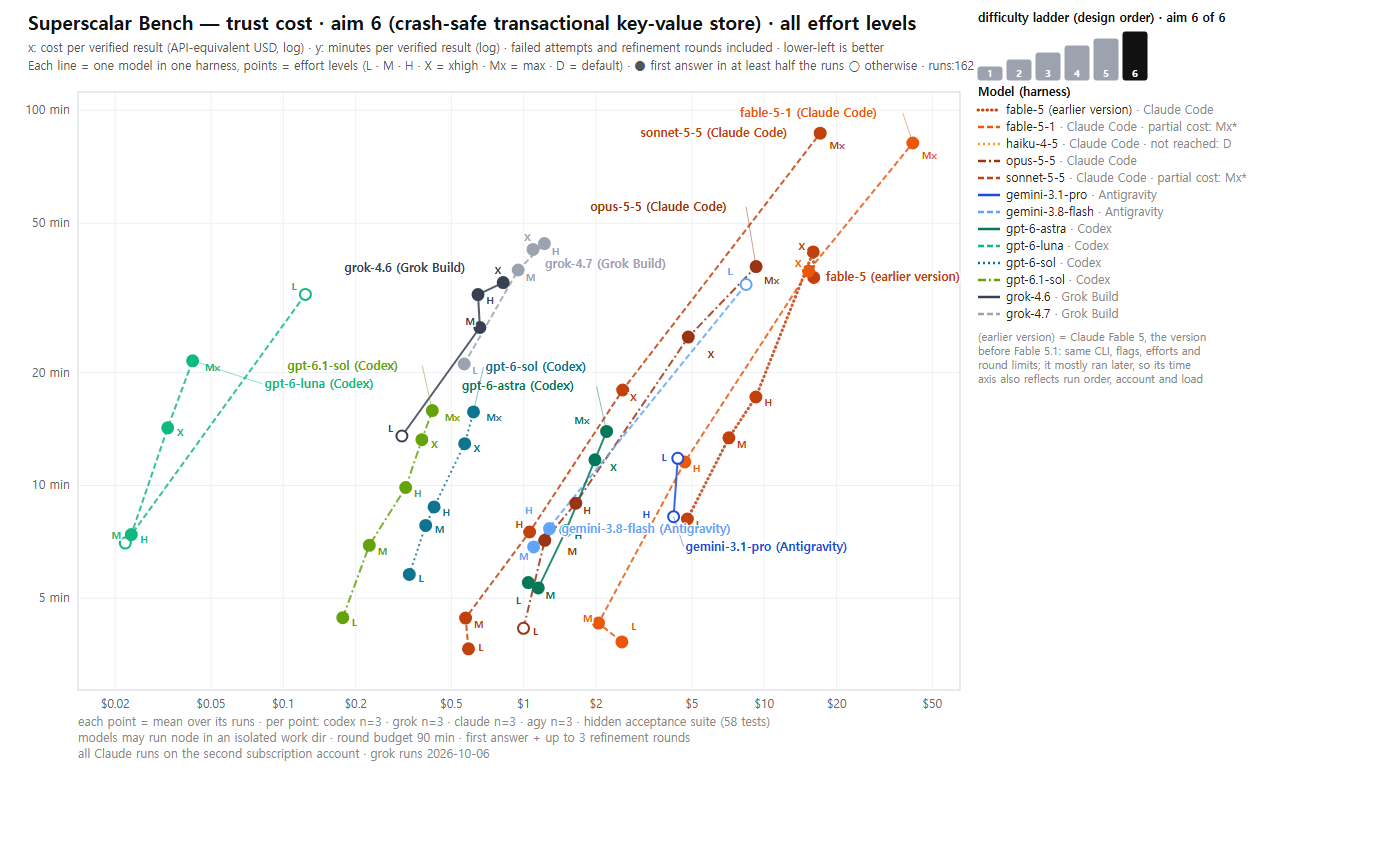
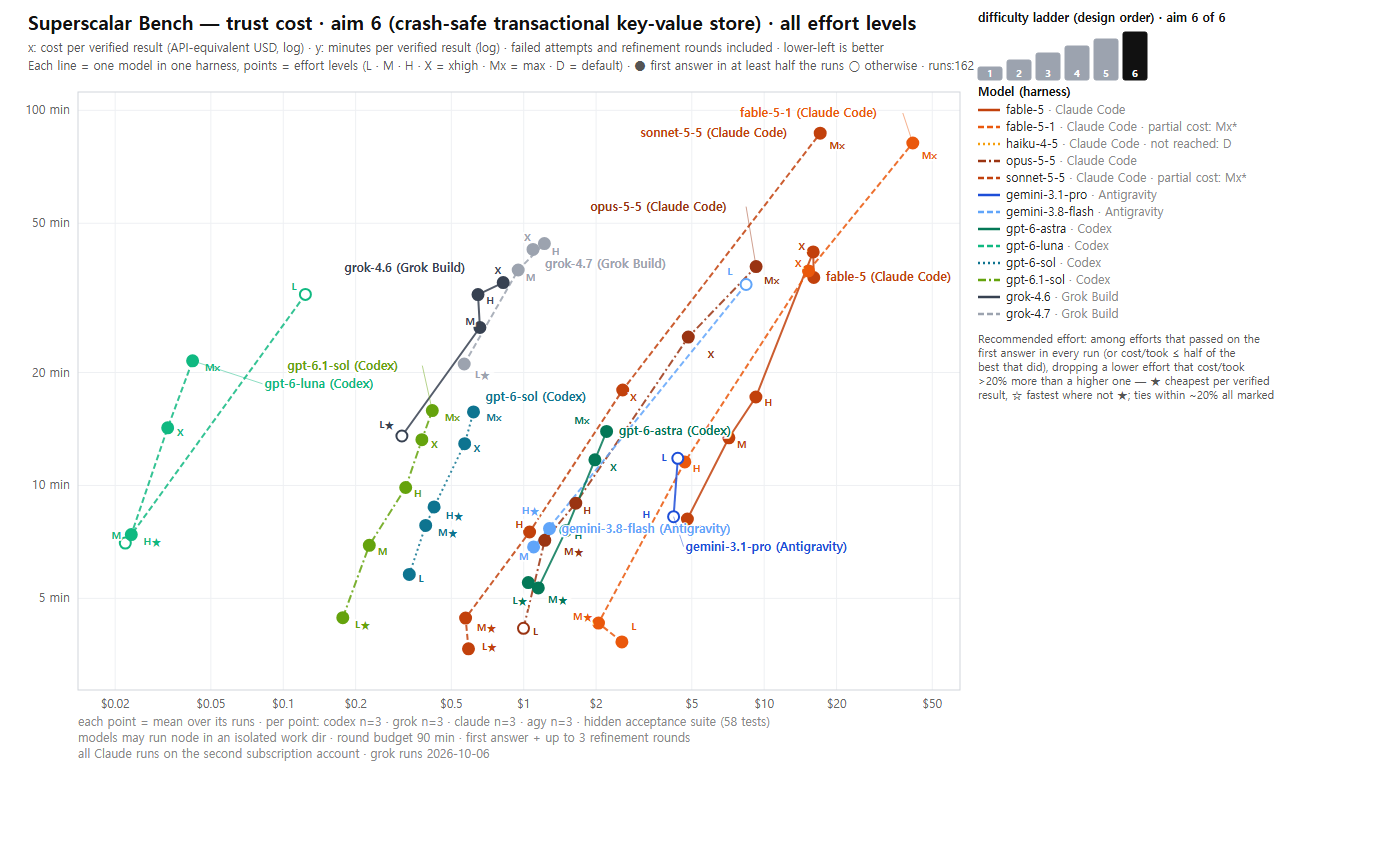
chore(release): v2.6.149 — Superscalar Bench: recommended effort marked in every figure (eligible = first answer in every run · exception ≥2× · per-axis exclusion of a lower effort that spends >20% more · ★ cheapest / ☆ fastest within the 20% tie band), same marks as a table; Claude Fable 5 named li
- figures: ★/☆ beside effort labels + a legend note; no mark where no effort passed on the first answer in every run
- SuperscalarBench.md + docs page: «Recommended effort by aim» table and the four-step rule (EN/KO), generated by the same function as the figures
- Fable 5: separate label and line style removed; the harness-prompt note is now a general sentence about Claude Code

diff --git a/docs/superscalar-bench.html b/docs/superscalar-bench.html
@@ -103,13 +103,13 @@
       <table class="data">
         <thead><tr><th data-en="harness" data-ko="하네스">harness</th><th data-en="models" data-ko="모델">models</th><th data-en="effort levels" data-ko="effort 단계">effort levels</th></tr></thead>
         <tbody>
-          <tr><td>Claude Code (CLI 2.1.284)</td><td>Sonnet 5.5 · Opus 5.5 · Fable 5.1 · Fable 5 (earlier version) · Haiku 4.5</td><td>low – max · Haiku: default</td></tr>
+          <tr><td>Claude Code (CLI 2.1.284)</td><td>Sonnet 5.5 · Opus 5.5 · Fable 5.1 · Fable 5 · Haiku 4.5</td><td>low – max · Haiku: default</td></tr>
           <tr><td>Codex</td><td>GPT-6.1 Sol · GPT-6 Sol · GPT-6 Astra · GPT-6 Luna</td><td>low – max</td></tr>
           <tr><td>Grok Build</td><td>grok-4.7 · grok-4.6</td><td>low – xhigh</td></tr>
           <tr><td>Antigravity</td><td>Gemini 3.8 Flash · Gemini 3.1 Pro</td><td>Flash: low · medium · high · Pro: low · high</td></tr>
         </tbody>
       </table>
-      <p data-en="Claude Fable 5 is the earlier version of Fable 5.1, measured with the same CLI version, flags, effort levels, round limit and budget, at n = 3 per cell. Claude Code sends each model its own built-in system prompt — part of the harness, as for every model here. Fable 5 mostly ran later, mostly on the second Claude subscription account, and alone on aim 6, so its time axis is the least comparable." data-ko="Claude Fable 5 는 Fable 5.1 의 이전 버전이에요. 같은 CLI 버전 · 플래그 · effort 단계 · 라운드 한도 · 예산으로, 칸마다 n = 3 으로 쟀어요. Claude Code 는 모델마다 자기 내장 시스템 프롬프트를 보내요 — 하네스의 일부이고, 여기 모든 모델이 그래요. Fable 5 는 대체로 늦게, 주로 두 번째 Claude 구독 계정에서, aim 6 에선 혼자 돌아서 시간 축이 가장 비교하기 어려워요.">Claude Fable 5 is the earlier version of Fable 5.1, measured with the same CLI version, flags, effort levels, round limit and budget, at n = 3 per cell. Claude Code sends each model its own built-in system prompt — part of the harness, as for every model here. Fable 5 mostly ran later, mostly on the second Claude subscription account, and alone on aim 6, so its time axis is the least comparable.</p>
+      <p data-en="Claude Code sends each Claude model its own built-in system prompt — that is part of the harness, so a comparison between two Claude models is a comparison of model plus harness prompt, as it is under any harness." data-ko="Claude Code 는 Claude 모델마다 자기 내장 시스템 프롬프트를 보내요 — 하네스의 일부라서, Claude 모델 둘의 비교는 어느 하네스에서나처럼 «모델 + 하네스 프롬프트» 의 비교예요.">Claude Code sends each Claude model its own built-in system prompt — that is part of the harness, so a comparison between two Claude models is a comparison of model plus harness prompt, as it is under any harness.</p>
     </section>
 
     <section>
@@ -126,6 +126,25 @@
         <h4 data-en="Cheaper per token is not cheaper per verified result" data-ko="토큰당 싸다고 결과당 싼 게 아니에요">Cheaper per token is not cheaper per verified result</h4>
         <p data-en="In Claude Code, Claude Haiku 4.5's first answer alone cost as much as or more than Claude Sonnet 5.5's at Sonnet's cheapest effort on every aim, and it needed refinement more often. Per verified result it cost 1.3–4.5× as much on aims 1–5 (Haiku has one effort level, compared here with the best of Sonnet's five), and it did not reach aim 6." data-ko="Claude Code 에서 Claude Haiku 4.5 의 첫 답 하나가 가장 싼 effort 의 Claude Sonnet 5.5 첫 답과 같거나 더 비쌌고(모든 aim), 보정도 더 자주 필요했어요. 검증된 결과당으로는 aim 1–5 에서 1.3–4.5배(Haiku 는 effort 가 하나라 Sonnet 다섯 칸 중 가장 싼 것과 비교), aim 6 에선 못 닿았어요.">In Claude Code, Claude Haiku 4.5's first answer alone cost as much as or more than Claude Sonnet 5.5's at Sonnet's cheapest effort on every aim, and it needed refinement more often. Per verified result it cost 1.3–4.5× as much on aims 1–5 (Haiku has one effort level, compared here with the best of Sonnet's five), and it did not reach aim 6.</p>
       </div>
+      <h3 data-en="Recommended effort by aim" data-ko="aim 별 권장 effort">Recommended effort by aim</h3>
+      <p data-en="The ★ / ☆ marks in the figures. Four steps, per model and aim. (1) Eligible: efforts that reached on the first answer in every run. (2) Exception: an effort that needed refinement still qualifies if its cost or time per verified result is at most half that of the best eligible effort — far beyond the ~20% noise band. (3) Excluded: a lower effort that costs more than 20% more than some higher effort cannot get ★, and one that takes more than 20% longer cannot get ☆ — a lower effort that spends more must not look recommended. (4) Ranked: ★ on every remaining effort within 20% of the cheapest cost per verified result (the report&#39;s tie rule, so ties are all marked), ☆ on every remaining effort within 20% of the fastest that is not already ★. — means no effort passed on the first answer in every run; a single-effort model (Haiku 4.5) and a cell with a missing cost record get no ★." data-ko="그림의 ★ / ☆ 표시예요. 모델 × aim 마다 네 단계예요. ① 자격: 모든 실행이 첫 답에서 통과한 effort. ② 예외: 보정이 필요했어도, 검증된 결과당 비용이나 시간이 자격 있는 최선의 절반 이하면 후보에 넣어요 — ~20% 잡음 띠보다 훨씬 큰 차이만. ③ 제외: 더 높은 effort 보다 비용이 20% 넘게 더 드는 하위 effort 는 ★ 를, 시간이 20% 넘게 더 드는 하위 effort 는 ☆ 를 못 받아요 — 더 쓰는 하위 effort 가 권장으로 보이면 안 되니까요. ④ 순위: 남은 후보 중 검증된 결과당 비용이 가장 싼 칸의 20% 안 전부에 ★(보고서 동률 규칙이라 동률은 함께 표시), 가장 빠른 칸의 20% 안이면서 ★ 가 아닌 것에 ☆. — 는 모든 실행이 첫 답에서 통과한 effort 가 없다는 뜻이고, effort 가 하나뿐인 모델(Haiku 4.5)과 비용 기록이 빠진 칸은 ★ 를 받지 않아요.">The ★ / ☆ marks in the figures. Four steps, per model and aim. (1) Eligible: efforts that reached on the first answer in every run. (2) Exception: an effort that needed refinement still qualifies if its cost or time per verified result is at most half that of the best eligible effort — far beyond the ~20% noise band. (3) Excluded: a lower effort that costs more than 20% more than some higher effort cannot get ★, and one that takes more than 20% longer cannot get ☆ — a lower effort that spends more must not look recommended. (4) Ranked: ★ on every remaining effort within 20% of the cheapest cost per verified result (the report's tie rule, so ties are all marked), ☆ on every remaining effort within 20% of the fastest that is not already ★. — means no effort passed on the first answer in every run; a single-effort model (Haiku 4.5) and a cell with a missing cost record get no ★.</p>
+      <table class="data">
+        <thead><tr><th data-en="harness · model" data-ko="하네스 · 모델">harness · model</th><th>aim 1</th><th>aim 2</th><th>aim 3</th><th>aim 4</th><th>aim 5</th><th>aim 6</th></tr></thead>
+        <tbody>
+          <tr><td>Codex · GPT-6 Astra</td><td>L★ M★</td><td>L★ M★</td><td>L★ M★</td><td>L★ M★</td><td>L★ M★</td><td>L★ M★</td></tr>
+          <tr><td>Codex · GPT-6 Luna</td><td>L★ M★ H★</td><td>H★</td><td>L★ M★</td><td>L★ M★</td><td>M★</td><td>H★</td></tr>
+          <tr><td>Codex · GPT-6 Sol</td><td>L★</td><td>L★</td><td>L★ M★</td><td>L★</td><td>L★</td><td>M★ H★</td></tr>
+          <tr><td>Codex · GPT-6.1 Sol</td><td>L★</td><td>L★</td><td>L★ M★</td><td>L★</td><td>L★ M★</td><td>L★</td></tr>
+          <tr><td>Claude Code · Fable 5</td><td>H★</td><td>L★</td><td>L★</td><td>L★</td><td>L★</td><td>L★</td></tr>
+          <tr><td>Claude Code · Fable 5.1</td><td>L★ M★ H★</td><td>L★</td><td>L★ M★</td><td>L★</td><td>M★</td><td>M★</td></tr>
+          <tr><td>Claude Code · Opus 5.5</td><td>M★</td><td>L★</td><td>L★ M★</td><td>L★ M★</td><td>L★</td><td>M★</td></tr>
+          <tr><td>Claude Code · Sonnet 5.5</td><td>L★ M☆</td><td>L★ M★ H☆</td><td>L★ M★</td><td>L★ M★</td><td>H★ L☆</td><td>L★ M★</td></tr>
+          <tr><td>Grok Build · grok-4.6</td><td>L★</td><td>L★</td><td>L★</td><td>L★</td><td>L★</td><td>L★</td></tr>
+          <tr><td>Grok Build · grok-4.7</td><td>L★</td><td>L★</td><td>L★</td><td>L★</td><td>L★</td><td>L★</td></tr>
+          <tr><td>Antigravity · Gemini 3.1 Pro</td><td>L★</td><td>—</td><td>H★</td><td>L★</td><td>—</td><td>—</td></tr>
+          <tr><td>Antigravity · Gemini 3.8 Flash</td><td>L★</td><td>L★</td><td>L★</td><td>L★ M☆</td><td>L★</td><td>H★</td></tr>
+        </tbody>
+      </table>
       <h3 data-en="Claude Fable 5.1 vs Fable 5 — cost ratio by effort" data-ko="Claude Fable 5.1 대 Fable 5 — effort 별 비용비">Claude Fable 5.1 vs Fable 5 — cost ratio by effort</h3>
       <table class="data">
         <thead><tr><th></th><th class="num">low</th><th class="num">medium</th><th class="num">high</th><th class="num">xhigh</th><th class="num">max</th></tr></thead>
@@ -140,7 +159,7 @@
 
     <section>
       <h2 data-en="All six aims" data-ko="여섯 aim 전체">All six aims</h2>
-      <p data-en="x = trust cost (log) · y = trust time (log) · each line one model in one harness · points = effort levels (● first answer in at least half the runs, ○ otherwise) · lower-left is better. The marker at the top right shows the rung on the ladder." data-ko="x = 신뢰비용(로그) · y = 신뢰시간(로그) · 선 하나 = 한 하네스의 한 모델 · 점 = effort 단계(● 실행 절반 이상이 첫 답 · ○ 그 밖) · 왼쪽 아래가 좋아요. 오른쪽 위 표시가 사다리의 몇 번째 단인지 보여 줘요.">x = trust cost (log) · y = trust time (log) · each line one model in one harness · points = effort levels (● first answer in at least half the runs, ○ otherwise) · lower-left is better. The marker at the top right shows the rung on the ladder.</p>
+      <p data-en="x = trust cost (log) · y = trust time (log) · each line one model in one harness · points = effort levels (● first answer in at least half the runs, ○ otherwise; ★ / ☆ = recommended effort, see above) · lower-left is better. The marker at the top right shows the rung on the ladder." data-ko="x = 신뢰비용(로그) · y = 신뢰시간(로그) · 선 하나 = 한 하네스의 한 모델 · 점 = effort 단계(● 실행 절반 이상이 첫 답 · ○ 그 밖 · ★ / ☆ = 권장 effort, 위 표 참고) · 왼쪽 아래가 좋아요. 오른쪽 위 표시가 사다리의 몇 번째 단인지 보여 줘요.">x = trust cost (log) · y = trust time (log) · each line one model in one harness · points = effort levels (● first answer in at least half the runs, ○ otherwise; ★ / ☆ = recommended effort, see above) · lower-left is better. The marker at the top right shows the rung on the ladder.</p>
       <figure class="bench-fig"><img src="assets/bench/trust-cost-aim1.png" alt="aim 1 — mechanical multi-file edit" loading="lazy"><figcaption>aim 1 — mechanical multi-file edit · 25 hidden tests</figcaption></figure>
       <figure class="bench-fig"><img src="assets/bench/trust-cost-aim2.png" alt="aim 2 — spec-complete implementation" loading="lazy"><figcaption>aim 2 — spec-complete implementation · 73 hidden tests</figcaption></figure>
       <figure class="bench-fig"><img src="assets/bench/trust-cost-aim3.png" alt="aim 3 — multi-step feature + schema migration" loading="lazy"><figcaption>aim 3 — multi-step feature + schema migration · 49 hidden tests</figcaption></figure>

diff --git a/docs/index.html b/docs/index.html
@@ -61,7 +61,7 @@
       <p class="tagline" data-aud="dev" data-en="A reusable seed of agentic-coding patterns, designed to drop into any project that uses Claude Code, Codex, Cursor, or similar AI coding assistants." data-ko="Claude Code · Codex · Cursor와 같은 AI 코딩 도구를 사용하는 프로젝트에 그대로 투입할 수 있도록 정리한, 재사용 가능한 agentic-coding 패턴 시드입니다.">A reusable seed of agentic-coding patterns for Claude Code, Codex, Cursor, etc.</p>
       <div class="badges">
         <span class="badge">Apache-2.0</span>
-        <span class="badge">v2.6.148</span>
+        <span class="badge">v2.6.149</span>
         <span class="badge">7 modules</span>
       </div>
       <div class="cta-row">

diff --git a/docs/shared/data.js b/docs/shared/data.js
@@ -3,7 +3,7 @@
 
 window.EG_DATA = {
   meta: {
-    version: 'v2.6.148',
+    version: 'v2.6.149',
     shipCount: 91,
     cycleHours: 24,
     e2ePRs: 5,

diff --git a/CHANGELOG.md b/CHANGELOG.md
@@ -13,6 +13,7 @@ This file is the **changelog SSoT** — each seed file keeps only a compact head
 ## Changelog (English)
 
 - **v2.6.113** (2026-08-16) — two model rows joined the subscaler registry, and the intake pipeline mattered more than the rows. Grok 4.6 (T1) and Gemini 3.7 Flash (T2) were each researched against vendor pages and then **adversarially re-derived by a second agent from the same cited pages** — and the refutation pass earned its cost three times over. It converted a hedge into a fact: the researcher flagged Grok 4.6's cached-input price as "maybe the predecessor row just omitted the tier split", and the verifier settled it by re-deriving the 4.5 row from the same pricing page — the cached rate genuinely rose ($0.30→$0.50 under 200k, $0.60→$1.00 above) while base rates held. It caught a paraphrase presented as a verbatim quote, which matters in a registry whose rows cite quotes as evidence. And it found a parameter path attributed to a page that does not carry it. The rows also encode two upgrade foot-guns that point in opposite directions: xAI's new top effort rung is accepted-and-silently-downgraded on older models (a pinned "xhigh" config degrades without an error), while Google removed the bottom rung — "minimal" now returns an error on 3.7 Flash, so a low-effort lane config breaks loudly on upgrade. Loud beats silent; both are recorded where a lane-binding reader will meet them. Three neighbouring claims were corrected in the same cut, because a registry that only ever adds rows accumulates rows whose neighbours contradict them: 3.6 Flash's "current pick" claim got an end date, the xAI effort-ladder guidance now says the ladder grew at the top while the bottom is still missing, and the alias-trap caveat is flagged stale — the vendor docs do not say where grok-build-latest points after 4.6, so the trap's target is unverified in both directions until re-measured. The watchlist gained the dated events that will bite: Gemini 3.7 Flash's introductory pricing doubles on 2027-01-01 to exactly its predecessor's price (so the tier pick must be re-run at that boundary), and the three-week Flash cadence now outruns the Gemini CLI's own model allowlist by two-plus cycles, which converts every new Flash into an API-only model for that harness.
+- **v2.6.149** (2026-10-07) — Superscalar Bench — **recommended effort marked in every figure; Claude Fable 5 named like every other model.** Each per-aim figure marks the recommended effort per model, decided in four steps: (1) eligible = efforts that reached on the first answer in every run; (2) exception = an effort that needed refinement still qualifies if its cost or time per verified result is at most half that of the best eligible one — far beyond the ~20% noise band (7 cells); (3) excluded, per axis = a lower effort that costs more than 20% more than some higher effort cannot get ★, one that takes more than 20% longer cannot get ☆, so a lower effort that spends more never looks recommended — applied per axis so that a cheaper-but-slower effort keeps its true «cheapest» mark (excluding on «cost or time» together would have taken ★ from Sonnet 5.5 low on aim 1, 0.82× the cost of medium); (4) ranked = ★ on every remaining effort within 20% of the cheapest cost per verified result, ☆ on every remaining effort within 20% of the fastest that is not already ★. The 20% band is the report's own tie rule (median cost CV 11–19% over 3 runs), so ties are marked together rather than one cell being called «recommended»; a model and aim with no effort passing on the first answer in every run gets no mark (—), as does a single-effort model; a cell with a missing cost record cannot get ★. Result: 92 ★ and 4 ☆ across the six figures, the same marks as a «Recommended effort by aim» table in the report and on the docs page, both generated by one function. Separately, Claude Fable 5 was measured under the same conditions as the rest, so its version number is enough to tell it apart: its separate label and dotted line style are gone from the figures, the aim-6 table and the docs page; the note that Claude Code sends each Claude model its own built-in system prompt stays as a general sentence about the harness. Key images, guide sheets and the ladder summary are unchanged.
 - **v2.6.148** (2026-10-07) — Superscalar Bench key images — **a glance tells which kind of task each aim is.** One wordless key image per aim (aims 1–6: a mechanical edit repeated across files · building from a complete spec · a feature plus a stored-data migration · diagnosing one hidden flaw from a symptom report · tokens becoming a tree becoming a result · a store that survives a power cut), and a guide sheet in English and Korean that puts the six on the designed ladder of difficulty. The pictures were generated with Codex CLI 0.160.1's built-in image tool (the plan path that needs no API key; the API-key fallback was not used); every output was checked as a new file in its own session folder, a PNG signature, a square size and a minimum byte size, then downscaled to 600 × 600. Prompts are published beside the images (`docs/assets/bench/keyart/prompts/`) with a note on how they were made; the pictures carry no text by design, and everything readable on the sheet — titles, aim numbers, task names, test counts and the ladder — is drawn by code, so one set of pictures serves both languages. Placement: SuperscalarBench.md opens each language section with its sheet and adds a key-image column to the aim tables; the docs page gains a «The six aims» section whose sheet follows the language toggle, and the same column; README shows the sheet above the aim 5–6 figures.
 - **v2.6.147** (2026-10-07) — Superscalar Bench report · superscalar plugin v0.5.7 · model registry — **what one verified coding result costs, now published.** New `SuperscalarBench.md` (a report, not a module) and docs page `superscalar-bench.html`: trust cost — the cost and wall time of one *verified* result, failed attempts and refinement rounds included — per model × harness × effort on six coding tasks on a ladder ordered by task scope and designed to get harder as it climbs, each graded by a hidden acceptance suite (first answer plus up to three refinement rounds). 971 valid runs (2026-09-30 → 10-06; 54 combinations per task across Claude Code, Codex, Grok Build and Antigravity; n=3 per cell, one cell n=2). What it shows: the ladder separates on time, cost and the first answer before it separates on reach — all 809 runs of the first five tasks reached, the sixth is the first with misses (156 of 162), and the top two tasks take about twice the median time and cost of the first four, which rise unevenly and are reported as measured, not smoothed. The cheapest effort is low or medium in 70 of 72 model × task pairs; on the first five tasks higher effort bought no extra reach (low → max up to ~24× the cost), while on the sixth, apart from Claude Haiku 4.5 (one effort level), every miss was at the lowest effort. Cheaper per token is not cheaper per verified result (Claude Haiku 4.5's first answer already cost at least Claude Sonnet 5.5's at Sonnet's cheapest effort; 1.3–4.5× per verified result, no reach on the sixth). Claude Fable 5.1 vs its earlier version Fable 5 depends on effort: costlier at max on all six tasks (1.7–3.4×), cheaper or about the same at low–high. Stated limits: single observer on one machine, tasks and hidden suites unpublished (not rerunnable yet), only the Claude Code CLI version recorded (in each Claude transcript), time is the weaker axis (load, run order, two subscription accounts, 43 early runs with the machine's plugin hooks), cost is API-equivalent, four max-effort runs reached without a cost record (their cells are lower bounds). The report also lists the seven measurement-condition defects found and fixed, and an incident where empty grader feedback led a model to probe the evaluator (caught by the tamper scan). Figures: README carries the two top tasks; the report and docs page carry all six plus a ladder summary; each per-task figure marks its rung, and Fable 5 is labelled «earlier version» (same CLI, flags, efforts and round limits; it mostly ran later, so its time axis is the least comparable). Registry: effortGuidance «MEASURED IN-HOUSE» now points at the published report, covers the sixth task, corrects the Fable max wall-time range (2–6×) and the Haiku range (3.5–4.5× on three tasks; 1.3–4.5× over five), and names which task each Sonnet low → max multiple belongs to; the Fable 5.1 row note gains the sixth-task ratio. superscalar plugin 0.5.6 → 0.5.7.
 - **v2.6.146** (2026-10-06) — Constellation v2.4.178 — **what the relay forwards about an item is now signed by the board, and so is every record of a spent code (§13.25.17, informative).** v2.6.145 let a code choose only on decisions declared `two_way`, but the declaration travelled unsigned, so whoever forwarded the snapshot could claim it. Every items-snapshot entry now carries a board signature (P-256, the board key a phone already pins) over `{boardId, itemId, rev, status, kind, reversibility|null, v}`. A phone or relay can therefore check the declaration, the revision and whether the item is open or closed. The verifier rules are written down. An unsigned or unverifying entry takes no part in revision ordering. Once a board's signature has verified, its unsigned entries are refused. A same-revision signed entry may replace a stored unsigned row only if every field matches. Closure counts only when a signed `resolved` record arrives at a higher revision; an item merely missing from a full snapshot stays unconfirmed. Spend records gain a signed `ver` that rises each time the board re-signs a record, so a replayed older record loses. They no longer wait for a result POST to travel: a new batch item `{kind:'spends'}` carries the latest ones. Their item id is the one the snapshot uses for decisions (`sd:`); selection answers keep the prompt's `h:` id and are matched only when the signed verb is `selection.answer`. Review found six more issues, all fixed. Items already open at upgrade would never have received a usable signature, because their signed record arrived at the revision the relay already held; they are now re-sent once at the next revision when a key first signs them. A non-integer revision on disk stopped the whole uplink; such records are now dropped on load. After receipts were pruned a spend record could be re-signed back to `no-receipt`; a final outcome now never regresses. Full snapshots also carry signed closing records from the last seven days, so a closure notice lost in transit can still be confirmed. A claim that unchanged records keep identical signature bytes across restarts was dropped; verifiers compare signed fields, not bytes. `smoke-uplink-commands` runs 269 assertions and fails on each of its mutants.
@@ -646,6 +647,7 @@ Earlier releases (v1.0 – v2.4.x, 39 entries): preserved verbatim in [CHANGELOG
 ## 변경 이력 (한국어)
 
 - **v2.6.113** (2026-08-16) — subscaler 레지스트리에 모델 두 행이 들어왔는데, 행보다 **들어온 절차**가 더 값졌어요. Grok 4.6(T1)과 Gemini 3.7 Flash(T2)를 각각 벤더 페이지로 조사한 뒤 **두 번째 에이전트가 같은 인용 페이지에서 값을 다시 유도**하게 했고, 그 반증 패스가 비용값을 세 번 했어요. 헤지를 사실로 바꿨어요 — 조사자는 Grok 4.6 의 캐시 입력 단가를 「전임 행이 티어 표기를 생략했을 수도」라고 얼버무렸는데, 반증자가 같은 가격 페이지에서 4.5 행을 재유도해서 확정했어요: 기본 단가는 그대로인데 **캐시 단가만 진짜 인상**($0.30→$0.50 · $0.60→$1.00)이에요. 의역을 원문 인용처럼 적은 것도 잡았어요 — 인용을 근거로 싣는 레지스트리에선 그 구분이 곧 신뢰예요. 그리고 파라미터 경로가 그걸 싣지 않은 페이지에 귀속돼 있던 것도요. 새 행 둘은 **반대 방향의 업그레이드 함정** 한 쌍을 담아요: xAI 의 새 최상단 effort(xhigh)는 구모델에서 **오류 없이 조용히 강등**되고(핀 박은 설정이 소리 없이 낮아져요), Google 은 최하단을 없애서 3.7 Flash 에 «minimal» 을 보내면 **오류가 나요** — 낮은 쪽 레인 설정이 업그레이드에서 시끄럽게 깨져요. 조용한 것보다 시끄러운 게 낫고, 둘 다 레인 결속을 읽는 사람이 만날 자리에 적었어요. 같은 컷에서 이웃 주장 셋을 정정했어요 — 행만 추가하는 레지스트리는 이웃과 모순되는 행을 쌓거든요: 3.6 Flash 의 「현재 픽」 주장에 종료일을 달았고, xAI effort 사다리 서술은 「위로 자랐고 아래는 여전히 없다」로, 별칭 함정 caveat 은 **낡음 표시**를 달았어요 — 4.6 출시 후 grok-build-latest 가 어디를 가리키는지 벤더 문서가 말하지 않아서, 재측정 전까지 그 함정의 과녁은 양방향 미검증이에요. watchlist 엔 물게 될 날짜들이 들어갔어요: Gemini 3.7 Flash 도입가가 2027-01-01 에 정확히 전임 가격으로 두 배가 되고(그 경계에서 티어 픽을 다시 돌려야 해요), 3주짜리 Flash 출시 주기가 Gemini CLI 자기 모델 허용목록을 2사이클 이상 앞질러서 새 Flash 가 나올 때마다 그 하네스에선 API 전용이 돼요.
+- **v2.6.149** (2026-10-07) — Superscalar Bench — **그림마다 권장 effort 표시 · Claude Fable 5 도 다른 모델처럼 이름만.** aim 별 그림이 모델마다 권장 effort 를 네 단계로 정해 표시해요: ① 자격 = 모든 실행이 첫 답에서 통과한 effort ② 예외 = 보정이 필요했어도 검증된 결과당 비용이나 시간이 자격 있는 최선의 절반 이하면 후보(~20% 잡음 띠보다 훨씬 큰 차이만 · 7칸) ③ 축별 제외 = 더 높은 effort 보다 비용이 20% 넘게 더 드는 하위 effort 는 ★ 를, 시간이 20% 넘게 더 드는 하위 effort 는 ☆ 를 못 받아요 — 더 쓰는 하위 effort 가 권장으로 보이지 않게 하되, 축별로 적용해서 더 싸지만 느리기만 한 effort 는 참인 «가장 쌈» 표시를 지켜요(«비용 또는 시간» 한 묶음이었다면 Sonnet 5.5 aim 1 low — medium 의 0.82배 비용 — 가 ★ 를 잃었어요) ④ 순위 = 남은 후보 중 검증된 결과당 비용이 가장 싼 칸의 20% 안 전부에 ★, 가장 빠른 칸의 20% 안이면서 ★ 아닌 것에 ☆. 20% 는 보고서의 동률 규칙(3회 비용 변동계수 중앙값 11–19%)이라 한 칸만 «권장» 으로 찍지 않고 동률을 함께 표시해요. 모든 실행이 첫 답에서 통과한 effort 가 없는 모델 · aim 은 표시 없음(—), effort 가 하나뿐인 모델도 표시 없음, 비용 기록이 빠진 칸은 ★ 를 못 받아요. 결과: 그림 여섯 장에 ★ 92 · ☆ 4, 같은 표시를 보고서와 docs 페이지의 «aim 별 권장 effort» 표로도 실었고 둘 다 한 함수로 만들어요. 그리고 Claude Fable 5 는 다른 모델과 같은 조건으로 쟀으니 버전 번호만으로 구분돼요 — 그림 · aim 6 표 · docs 페이지에서 별도 라벨과 점선 표시를 걷어냈고, «Claude Code 가 Claude 모델마다 자기 내장 시스템 프롬프트를 보낸다» 는 설명은 하네스를 설명하는 일반 문장으로 남겼어요. 키 이미지 · 안내 시트 · 사다리 요약은 그대로예요.
 - **v2.6.148** (2026-10-07) — Superscalar Bench 키 이미지 — **한눈에 aim 마다 어떤 종류의 과제인지.** aim 마다 글자 없는 키 이미지 한 장(aim 1–6: 여러 파일에 같은 수정 반복 · 완결된 사양서대로 만들기 · 기능 추가와 저장 데이터 이전 · 증상 보고에서 숨은 결함 하나 찾기 · 토큰이 트리가 되고 결과가 되기 · 전원이 끊겨도 버티는 저장소)과, 여섯 장을 설계한 난도 사다리 위에 놓은 영어 · 한국어 안내 시트. 그림은 Codex CLI 0.160.1 의 내장 이미지 도구로 만들었고(API 키가 필요 없는 플랜 경로 · API 키 폴백은 안 씀), 결과마다 그 세션 폴더의 새 파일인지 · PNG 서명 · 정사각형 · 최소 크기를 확인한 뒤 600 × 600 으로 줄였어요. 프롬프트는 그림 옆에 공개했고(`docs/assets/bench/keyart/prompts/`) 만든 방법도 적었어요. 그림엔 일부러 글자를 안 넣었고, 시트에서 읽히는 모든 것 — 제목 · aim 번호 · 과제 이름 · 시험 수 · 사다리 — 은 코드로 그려서 그림 한 벌이 두 언어를 함께 써요. 배치: SuperscalarBench.md 는 언어 절마다 시트로 시작하고 aim 표에 키 이미지 열을 더했어요. docs 페이지엔 언어 전환을 따라가는 시트가 있는 «여섯 aim» 절과 같은 열이 생겼고, README 는 aim 5–6 그림 위에 시트를 보여 줘요.
 - **v2.6.147** (2026-10-07) — Superscalar Bench 보고서 · superscalar 플러그인 v0.5.7 · 모델 레지스트리 — **검증된 코딩 결과 하나의 값, 공개.** 새 `SuperscalarBench.md`(모듈이 아닌 보고서)와 docs 페이지 `superscalar-bench.html`: 신뢰비용 — 실패한 시도와 보정 라운드까지 넣은, *검증된* 결과 하나의 비용과 시간 — 을 과제 범위 순으로 위로 갈수록 어려워지게 설계한 여섯 코딩 과제(각각 숨긴 수용 시험으로 채점 · 첫 답 뒤 보정 라운드 최대 세 번) 위에서 모델 × 하네스 × effort 마다 쟀어요. 유효 실행 971회(2026-09-30 → 10-06 · 과제마다 Claude Code · Codex · Grok Build · Antigravity 의 54개 조합 · 칸마다 n=3, 한 칸만 n=2). 보여 주는 것: 사다리는 도달보다 먼저 시간 · 비용 · 첫 답에서 갈려요 — 앞의 다섯 과제 809회는 전부 도달했고, 여섯째에서 처음 놓쳤으며(162회 중 156회), 위의 두 과제는 시간·비용 중앙값이 앞의 넷의 대략 두 배예요. 앞의 넷은 고르게 오르지 않고, 다듬지 않고 잰 그대로 실었어요. 가장 싼 effort 는 모델 × 과제 72쌍 중 70쌍이 low 나 medium 이고, 앞의 다섯 과제에서는 effort 를 올려도 도달이 늘지 않았으며(low → max 비용 최대 약 24배), 여섯째에선 Claude Haiku 4.5(effort 하나)를 빼면 놓친 실행이 전부 가장 낮은 effort 였어요. 토큰당 싸다고 결과당 싼 게 아니에요(Claude Haiku 4.5 의 첫 답이 이미 가장 싼 effort 의 Claude Sonnet 5.5 첫 답 이상 · 결과당 1.3–4.5배 · 여섯째는 못 닿음). Claude Fable 5.1 대 이전 버전 Fable 5 는 effort 에 달렸어요: max 에선 여섯 과제 모두 더 비싸고(1.7–3.4배), low–high 에선 더 싸거나 비슷해요. 밝힌 한계: 관측자 한 명 · 기계 한 대, 과제와 숨긴 시험 비공개(아직 다시 돌릴 수 없음), 남은 버전은 Claude Code CLI(Claude 전사마다) 뿐, 시간이 더 약한 축(부하 · 실행 순서 · 구독 계정 두 개 · 기계의 플러그인 훅이 실린 초기 실행 43회), 비용은 API 정가 환산, max 실행 4건은 도달했지만 비용 기록 없음(그 칸은 하한). 보고서에는 찾아 고친 측정 조건 결함 일곱 가지와, 빈 채점 피드백이 모델의 평가기 탐색을 부른 사건(변조 검사가 잡음)도 실었어요. 그림: README 엔 위의 두 과제, 보고서와 docs 페이지엔 여섯 전부와 사다리 요약을 실었고, 과제별 그림마다 몇 번째 단인지 표시하며, Fable 5 는 «earlier version» 으로 표시해요(같은 CLI · 플래그 · effort · 라운드 한도 — 대체로 늦게 돌아 시간 축이 가장 비교하기 어려워요). 레지스트리: effortGuidance «MEASURED IN-HOUSE» 가 공개 보고서를 가리키고, 여섯째 과제를 담고, Fable max 의 시간 배수(2–6배)와 Haiku 범위(세 과제에서 3.5–4.5배 · 다섯 과제 전체 1.3–4.5배)를 바로잡고, Sonnet low → max 배수가 어느 과제 값인지 밝혔어요. Fable 5.1 행 메모에 여섯째 과제 비율을 더했어요. superscalar 플러그인 0.5.6 → 0.5.7.
 - **v2.6.146** (2026-10-06) — Constellation v2.4.178 — **중계가 나르는 항목 정보에 이제 보드 서명이 붙고, 코드 사용 기록도 마찬가지예요 (§13.25.17, 참고).** v2.6.145 는 `two_way` 로 선언된 결정에서만 코드로 고르게 했는데, 그 선언이 서명 없이 다녀서 스냅샷을 나르는 쪽이 주장할 수 있었어요. 이제 모든 항목 스냅샷 항목에 `{boardId, itemId, rev, status, kind, reversibility|null, v}` 에 대한 보드 서명(P-256, 폰이 이미 고정해 둔 보드 키)이 붙어요. 그래서 폰과 중계가 선언·개정 번호·열림/닫힘을 직접 확인할 수 있어요. 검증 규칙도 적어 뒀어요. 서명이 없거나 맞지 않는 항목은 개정 순서에 끼지 못해요. 한 번이라도 그 보드의 서명이 확인되면, 서명 없는 항목은 거절해요. 같은 개정의 서명된 항목은 모든 칸이 같을 때만 서명 없는 기존 행을 대신해요. 닫힘은 더 높은 개정의 서명된 `resolved` 기록이 와야 확정되고, full 스냅샷에서 빠졌다는 것만으로는 «미확인» 이에요. 사용 기록에는 서명된 `ver` 가 생겨서, 보드가 다시 서명할 때마다 올라가요. 그래서 옛 기록을 재전송해도 져요. 사용 기록은 이제 결과 POST 를 기다리지 않고 새 배치 항목 `{kind:'spends'}` 로 나가요. 항목 id 는 결정의 경우 스냅샷과 같은 `sd:` 이고, 선택지 답은 프롬프트의 `h:` id 를 그대로 쓰되 서명된 동사가 `selection.answer` 일 때만 맞춰 봐요. 검토가 6건을 더 찾았고 모두 고쳤어요. 업그레이드 때 이미 열려 있던 항목은 서명 기록이 중계가 가진 개정과 같은 번호로 와서 영영 쓸 수 있는 서명을 못 받을 뻔했어요 → 키가 처음 서명할 때 다음 개정으로 한 번 다시 보내요. 디스크의 정수가 아닌 개정 하나가 업링크 전체를 멈췄어요 → 그런 기록은 읽을 때 버려요. 영수증을 정리한 뒤 사용 기록이 `no-receipt` 로 되돌아가 다시 서명될 수 있었어요 → 확정된 결과는 되돌아가지 않아요. full 스냅샷에 지난 7일의 서명된 닫힘 기록도 실어서, 중간에 잃은 닫힘 알림도 확정할 수 있어요. 「바뀌지 않은 기록은 재시작 뒤에도 서명 바이트가 같다」 는 주장은 뺐어요 — 검증은 바이트가 아니라 서명된 칸을 비교해요. `smoke-uplink-commands` 는 269 단정이고 돌연변이 전부에서 실패해요.
